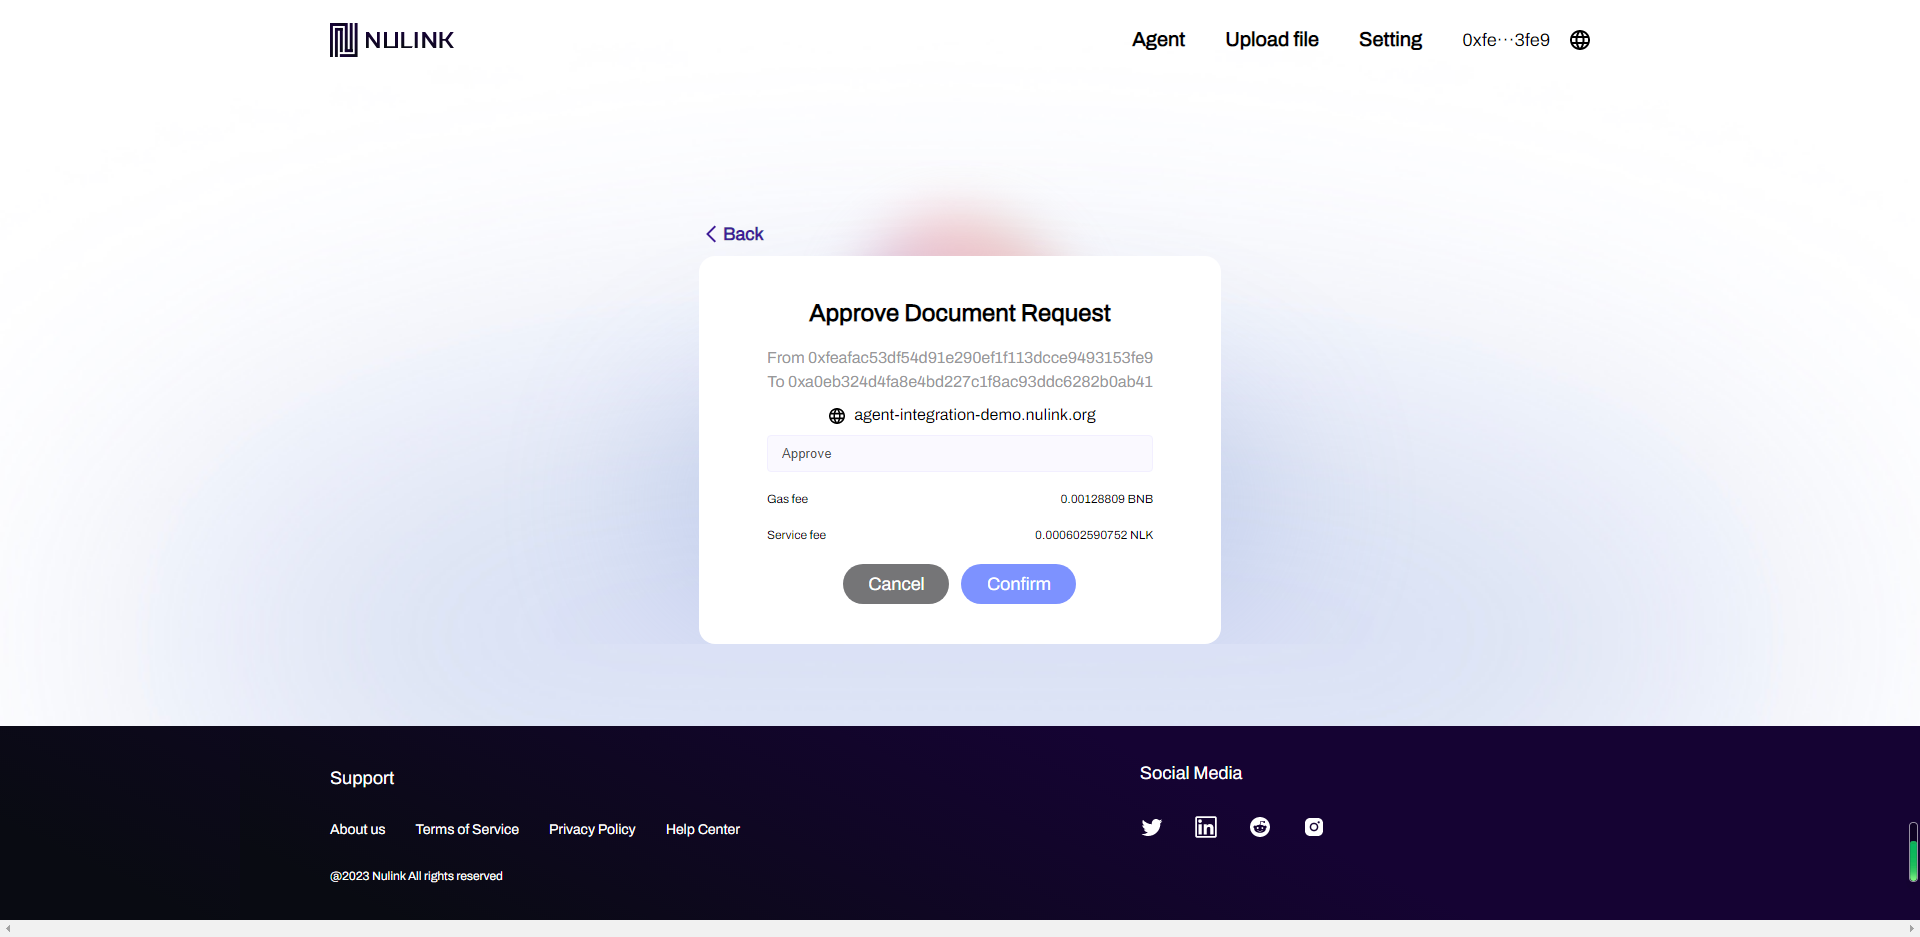
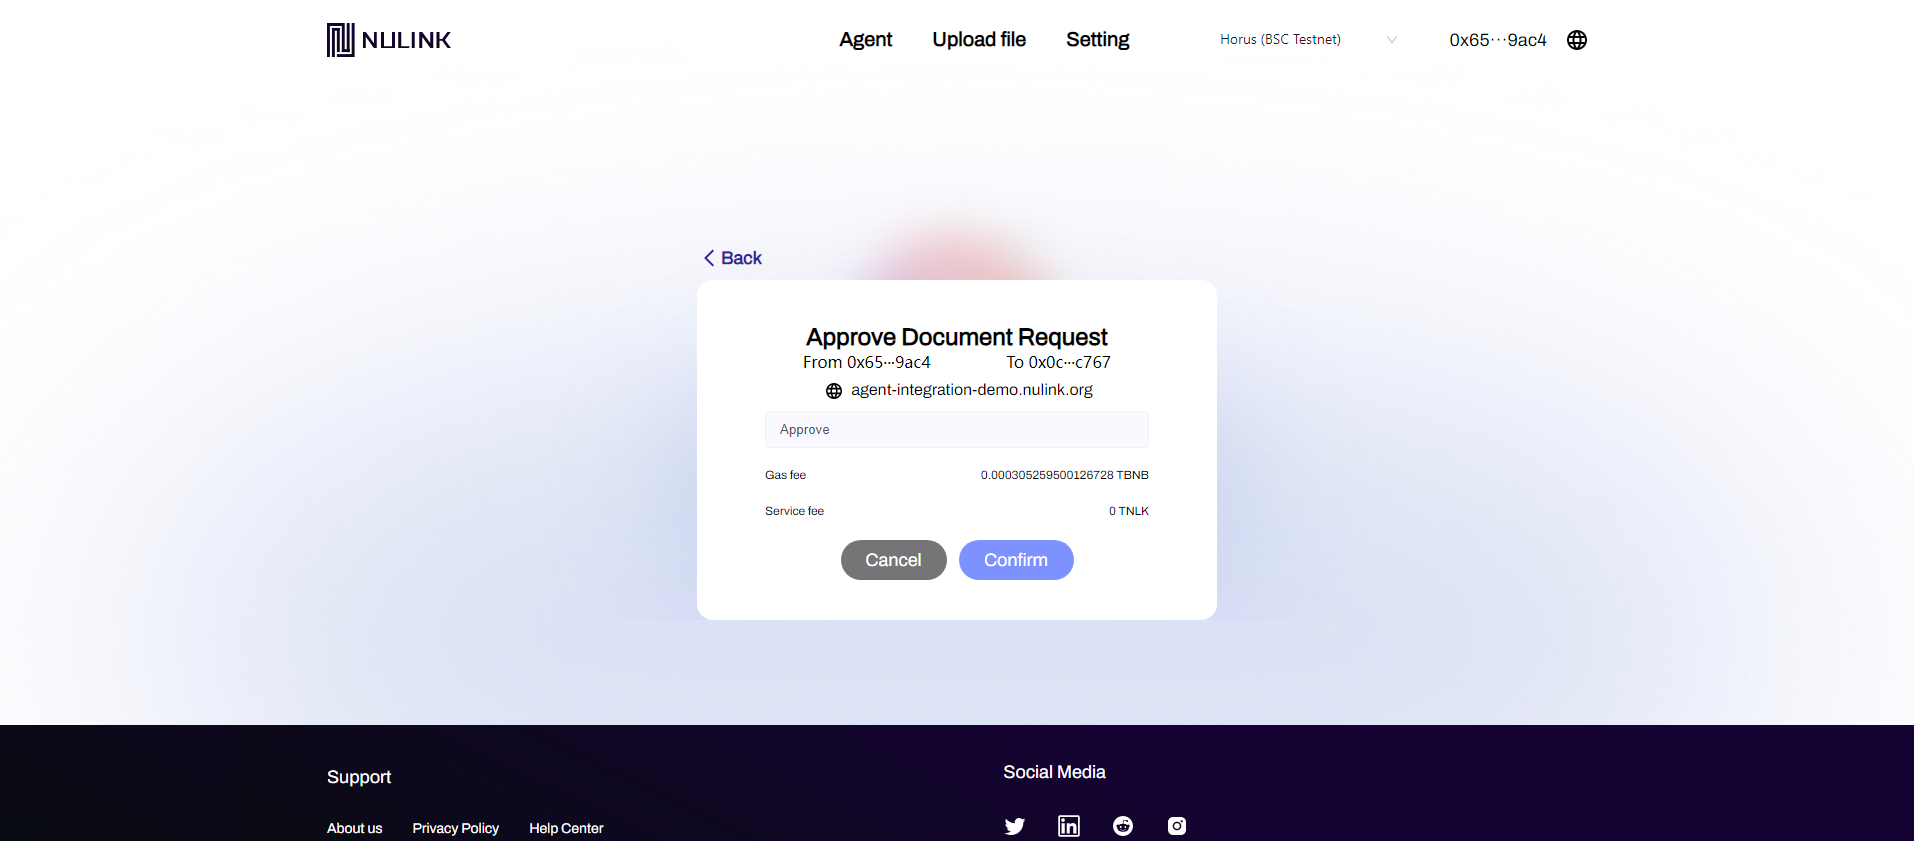
Update agent sdk doc.

diff --git a/product/agent_usecase.md b/product/agent_usecase.md
@@ -51,15 +51,29 @@ After the authorization is completed, the page will jump back to the third-party
 
 ## File Approval
 
-The figure below shows the list of applications received by the author, and clicking the "Review request" button can view the application details.
+The figure below shows the list of applications received by the author.
 
 ![Request Review](../miscellaneous/img/agent/request_review.png)
 
-After reviewing the application details, click "Submit."
+* Single File Approval
+  Click on the "Review request" button next to the file in the list page to view the application details. 
+If everything looks fine, click "Submit."
+
 
 ![Request Review Submit](../miscellaneous/img/agent/request_reviewed.png)
 
-At this time, the Agent authorization page will be called up, where you can see the relevant information of the application: the addresses of both parties, the source URL, the calling method, the gas fee, and the service fee. Click "Confirm" to complete the payment and approval.
+* Batch File Approval
+Select multiple files that you want to approve, then click the "Review request" button. 
+You can view the application details for different files by clicking the "Previous" and "Next" buttons. 
+If everything looks fine, click "Submit."
+
+![Request Review Submit](../miscellaneous/img/agent/request_reviewed_batch.png)
+
+Then the Agent authorization page will be displayed, showing relevant information about the application, including the addresses of the parties involved, the source URL, the method being called, gas fees, and service fees. 
+Click "Confirm" to complete the approval process after making the payment.
+
+
+After reviewing the application details, click "Submit."
 
 ![Request Approve](../miscellaneous/img/agent/request_confirm.png)
 
@@ -91,3 +105,19 @@ The image below shows the redirected third-party page, as indicated in the botto
 Clicking on the file will display its contents, as shown in the image below.
 
 ![File Image](../miscellaneous/img/agent/request_img.png)
+
+## Multi-Network Switching
+
+Currently, Agent supports two networks: Horus (BSC Testnet) and Conflux eSpace Testnet. 
+In the future, it will also support more networks.
+
+![File Image](../miscellaneous/img/agent/network_switching.png)
+
+When switching to another network, a pop-up window will provide a prompt.
+
+![File Image](../miscellaneous/img/agent/network_switch_info.png)
+
+After switching the network, if any operation requiring Agent authorization is needed, the Agent's network will be checked to ensure it matches the network of the third-party application. 
+If they don't match, a pop-up window will prompt the user to switch Agent's network. Otherwise, the authorization for the related operation cannot proceed.
+
+![File Image](../miscellaneous/img/agent/network_switch_confirm.png)
